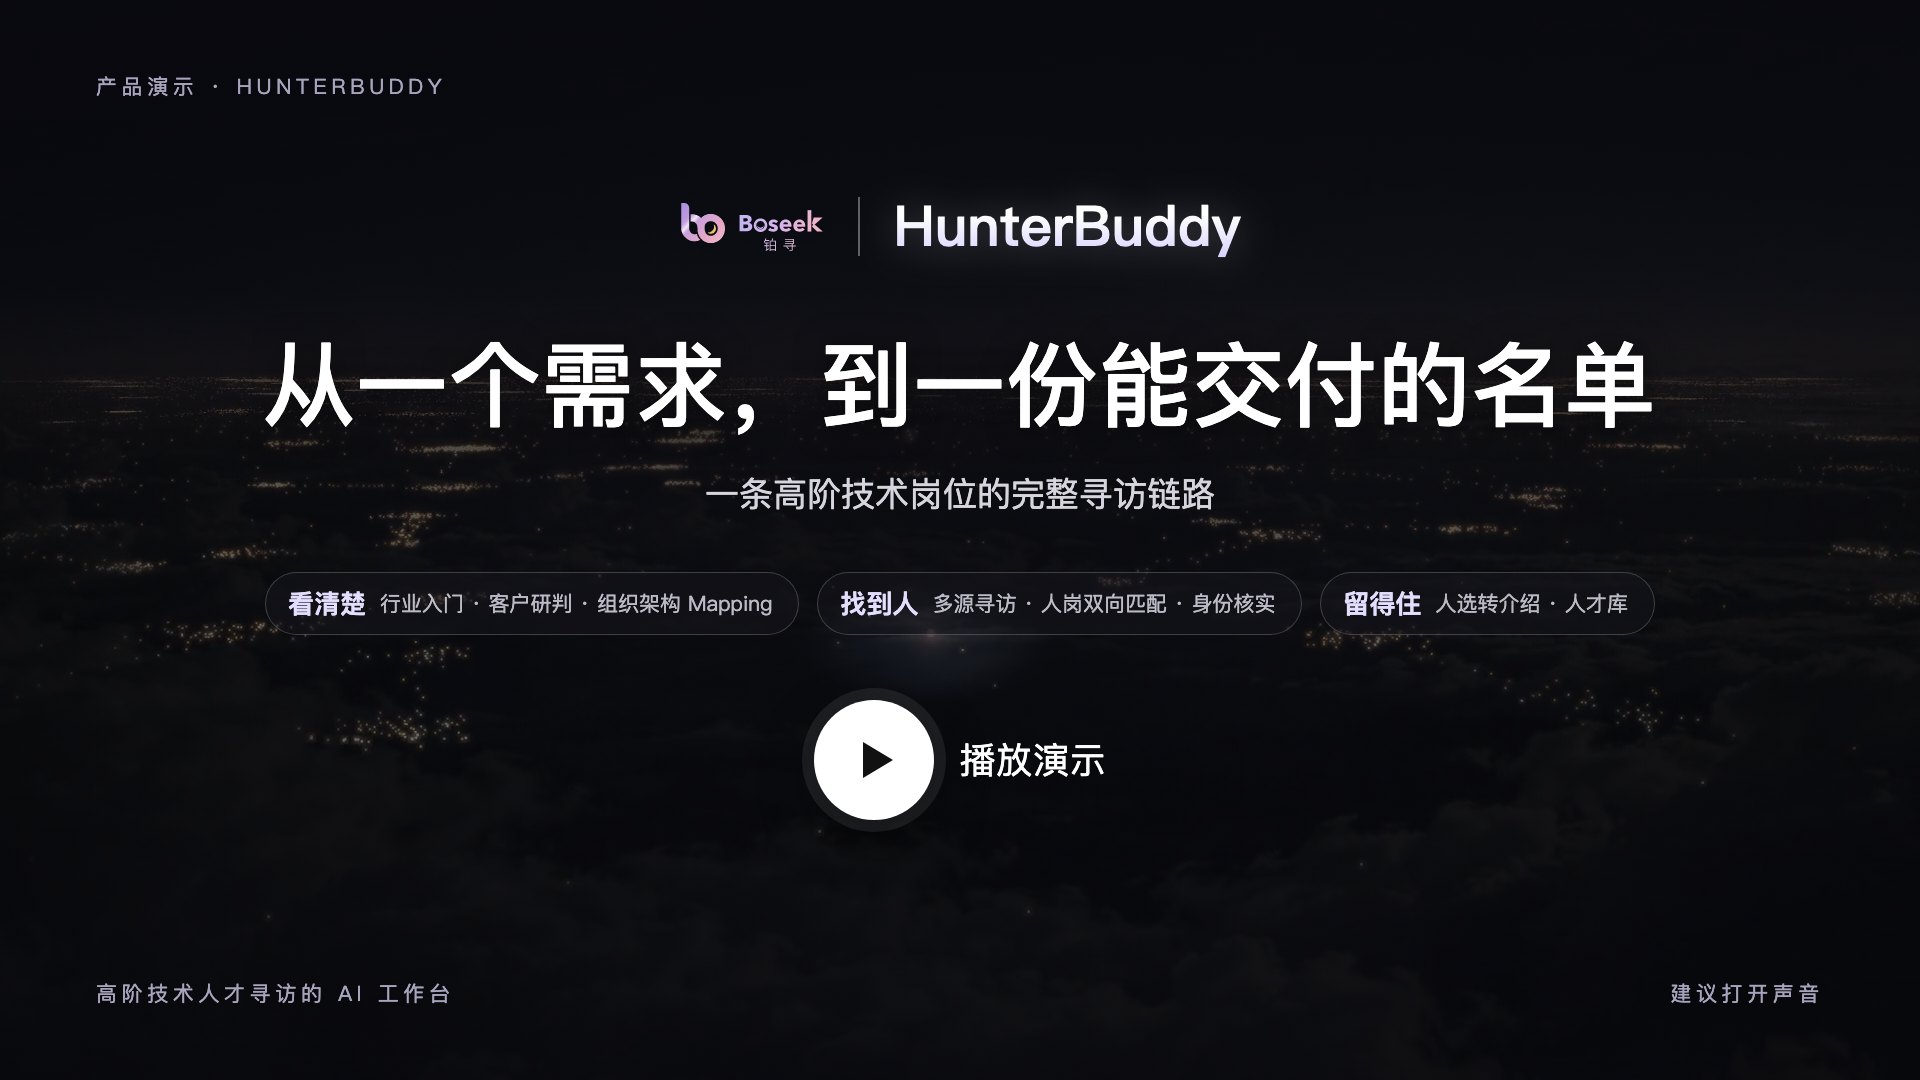
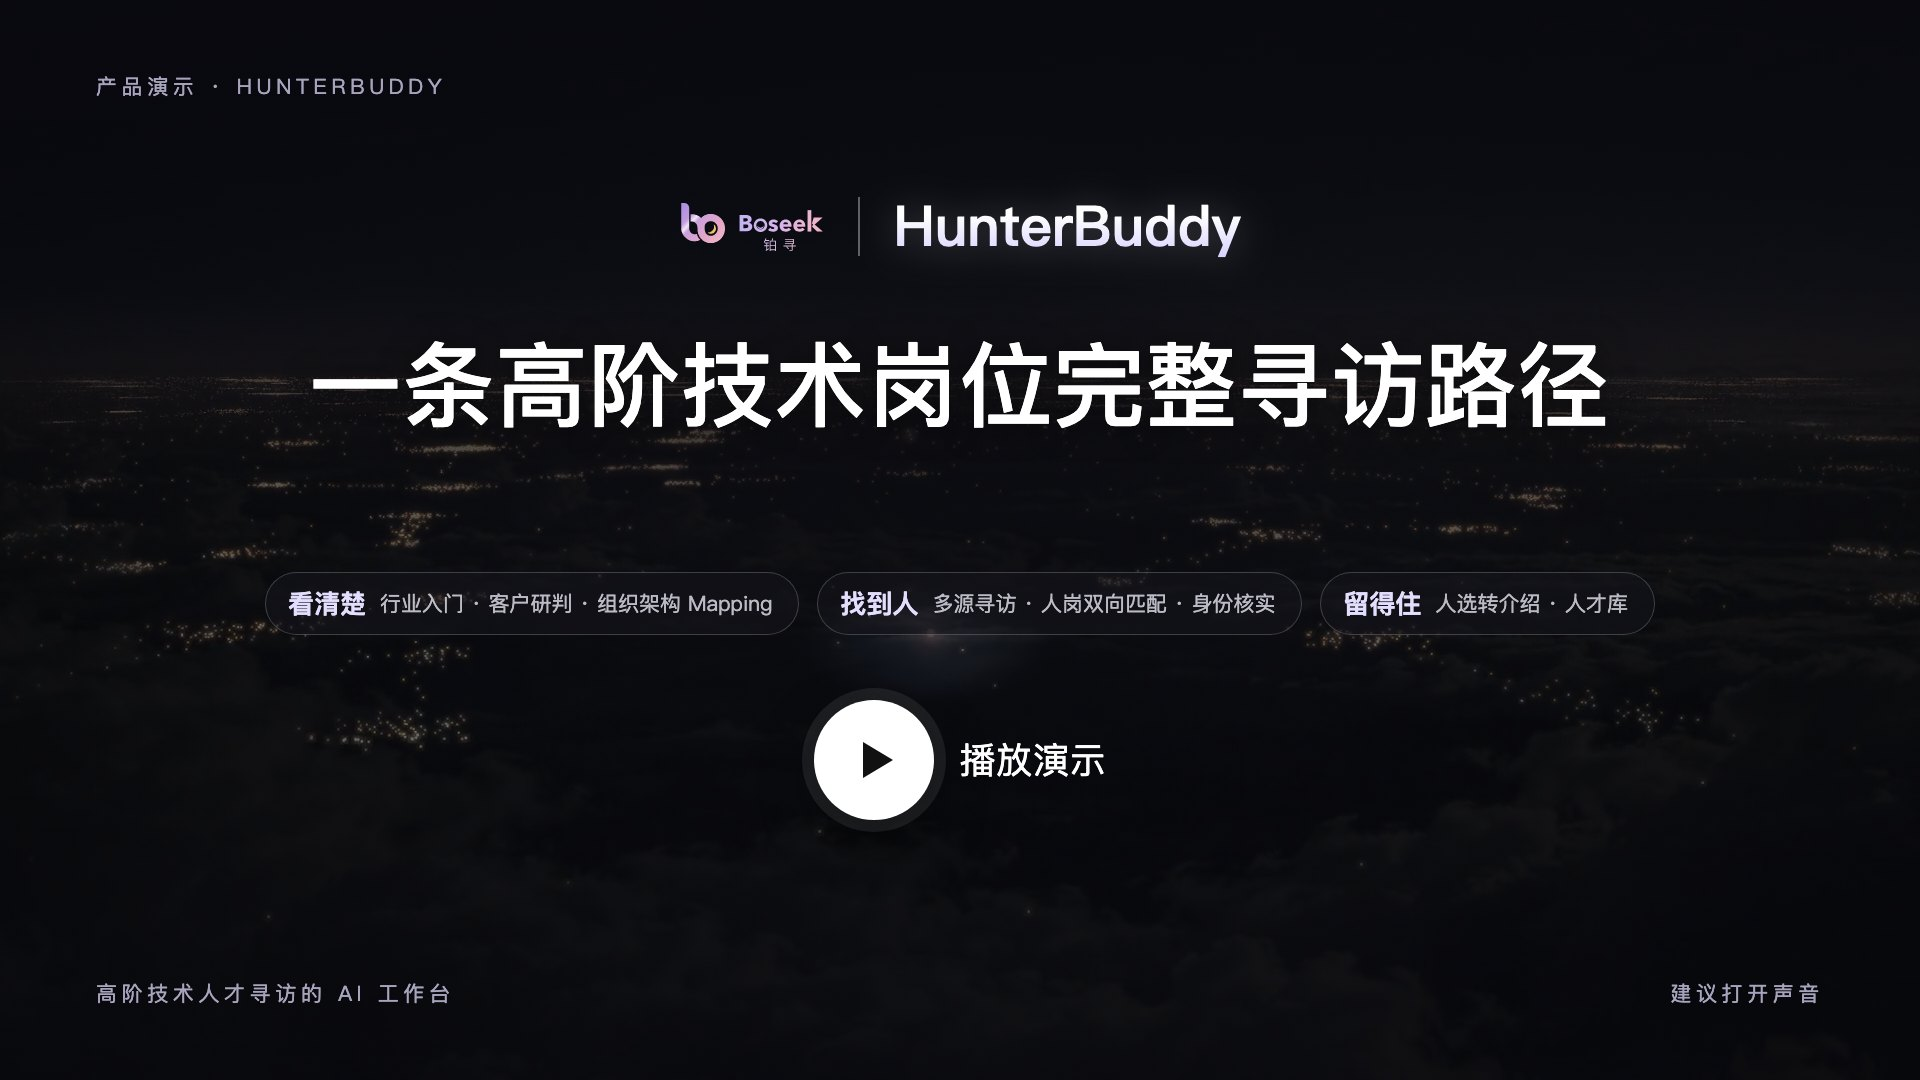
中文短片封面标题改为“一条高阶技术岗位完整寻访路径”
- 沿用原大标题字体；原小字与新标题重复，去掉
- 中文封面缓存版本 v=15 → v=16（英文封面不变）

Changed region(s): [[0.125, 0.3056, 0.875, 0.3972], [0.375, 0.4278, 0.625, 0.4889]]

diff --git a/public/landing-redesign/index.html b/public/landing-redesign/index.html
@@ -304,7 +304,7 @@
               controls
               preload="none"
               playsinline
-              poster="assets/film-poster.jpg?v=15"
+              poster="assets/film-poster.jpg?v=16"
               src="assets/hunterbuddy-film.mp4?v=15"
               aria-label="HunterBuddy 产品演示短片"
             ></video>

diff --git a/scripts/build-redesign-en-home.py b/scripts/build-redesign-en-home.py
@@ -155,7 +155,7 @@ r('<h2 class="n-display" id="n-intro-title">从一个需求，到一份能交付
 r('<p>HunterBuddy 是一款面向 HR 与专业猎头的 AI 人才工作台。<br />它不替你去沟通，而是让你在开口之前，就知道这个人做过什么、做到什么程度、该从哪里切入。</p>',
   '<p>HunterBuddy is an AI talent workbench for HR teams and professional headhunters.<br />It doesn’t reach out for you. Instead, before you say a word, you already know what this person has done, how far they took it, and where to begin.</p>')
 r('<p class="n-film-title">一条高阶技术岗位的完整寻访链路</p>', '<p class="n-film-title">One senior technical search, from start to finish</p>')
-r('poster="../assets/film-poster.jpg?v=15"', 'poster="../assets/film-poster-en.jpg?v=11"')
+r('poster="../assets/film-poster.jpg?v=16"', 'poster="../assets/film-poster-en.jpg?v=11"')
 r('src="../assets/hunterbuddy-film.mp4?v=15"', 'src="../assets/hunterbuddy-film-en.mp4?v=11"')
 r('aria-label="HunterBuddy 产品演示短片"', 'aria-label="HunterBuddy product demo"')
 
